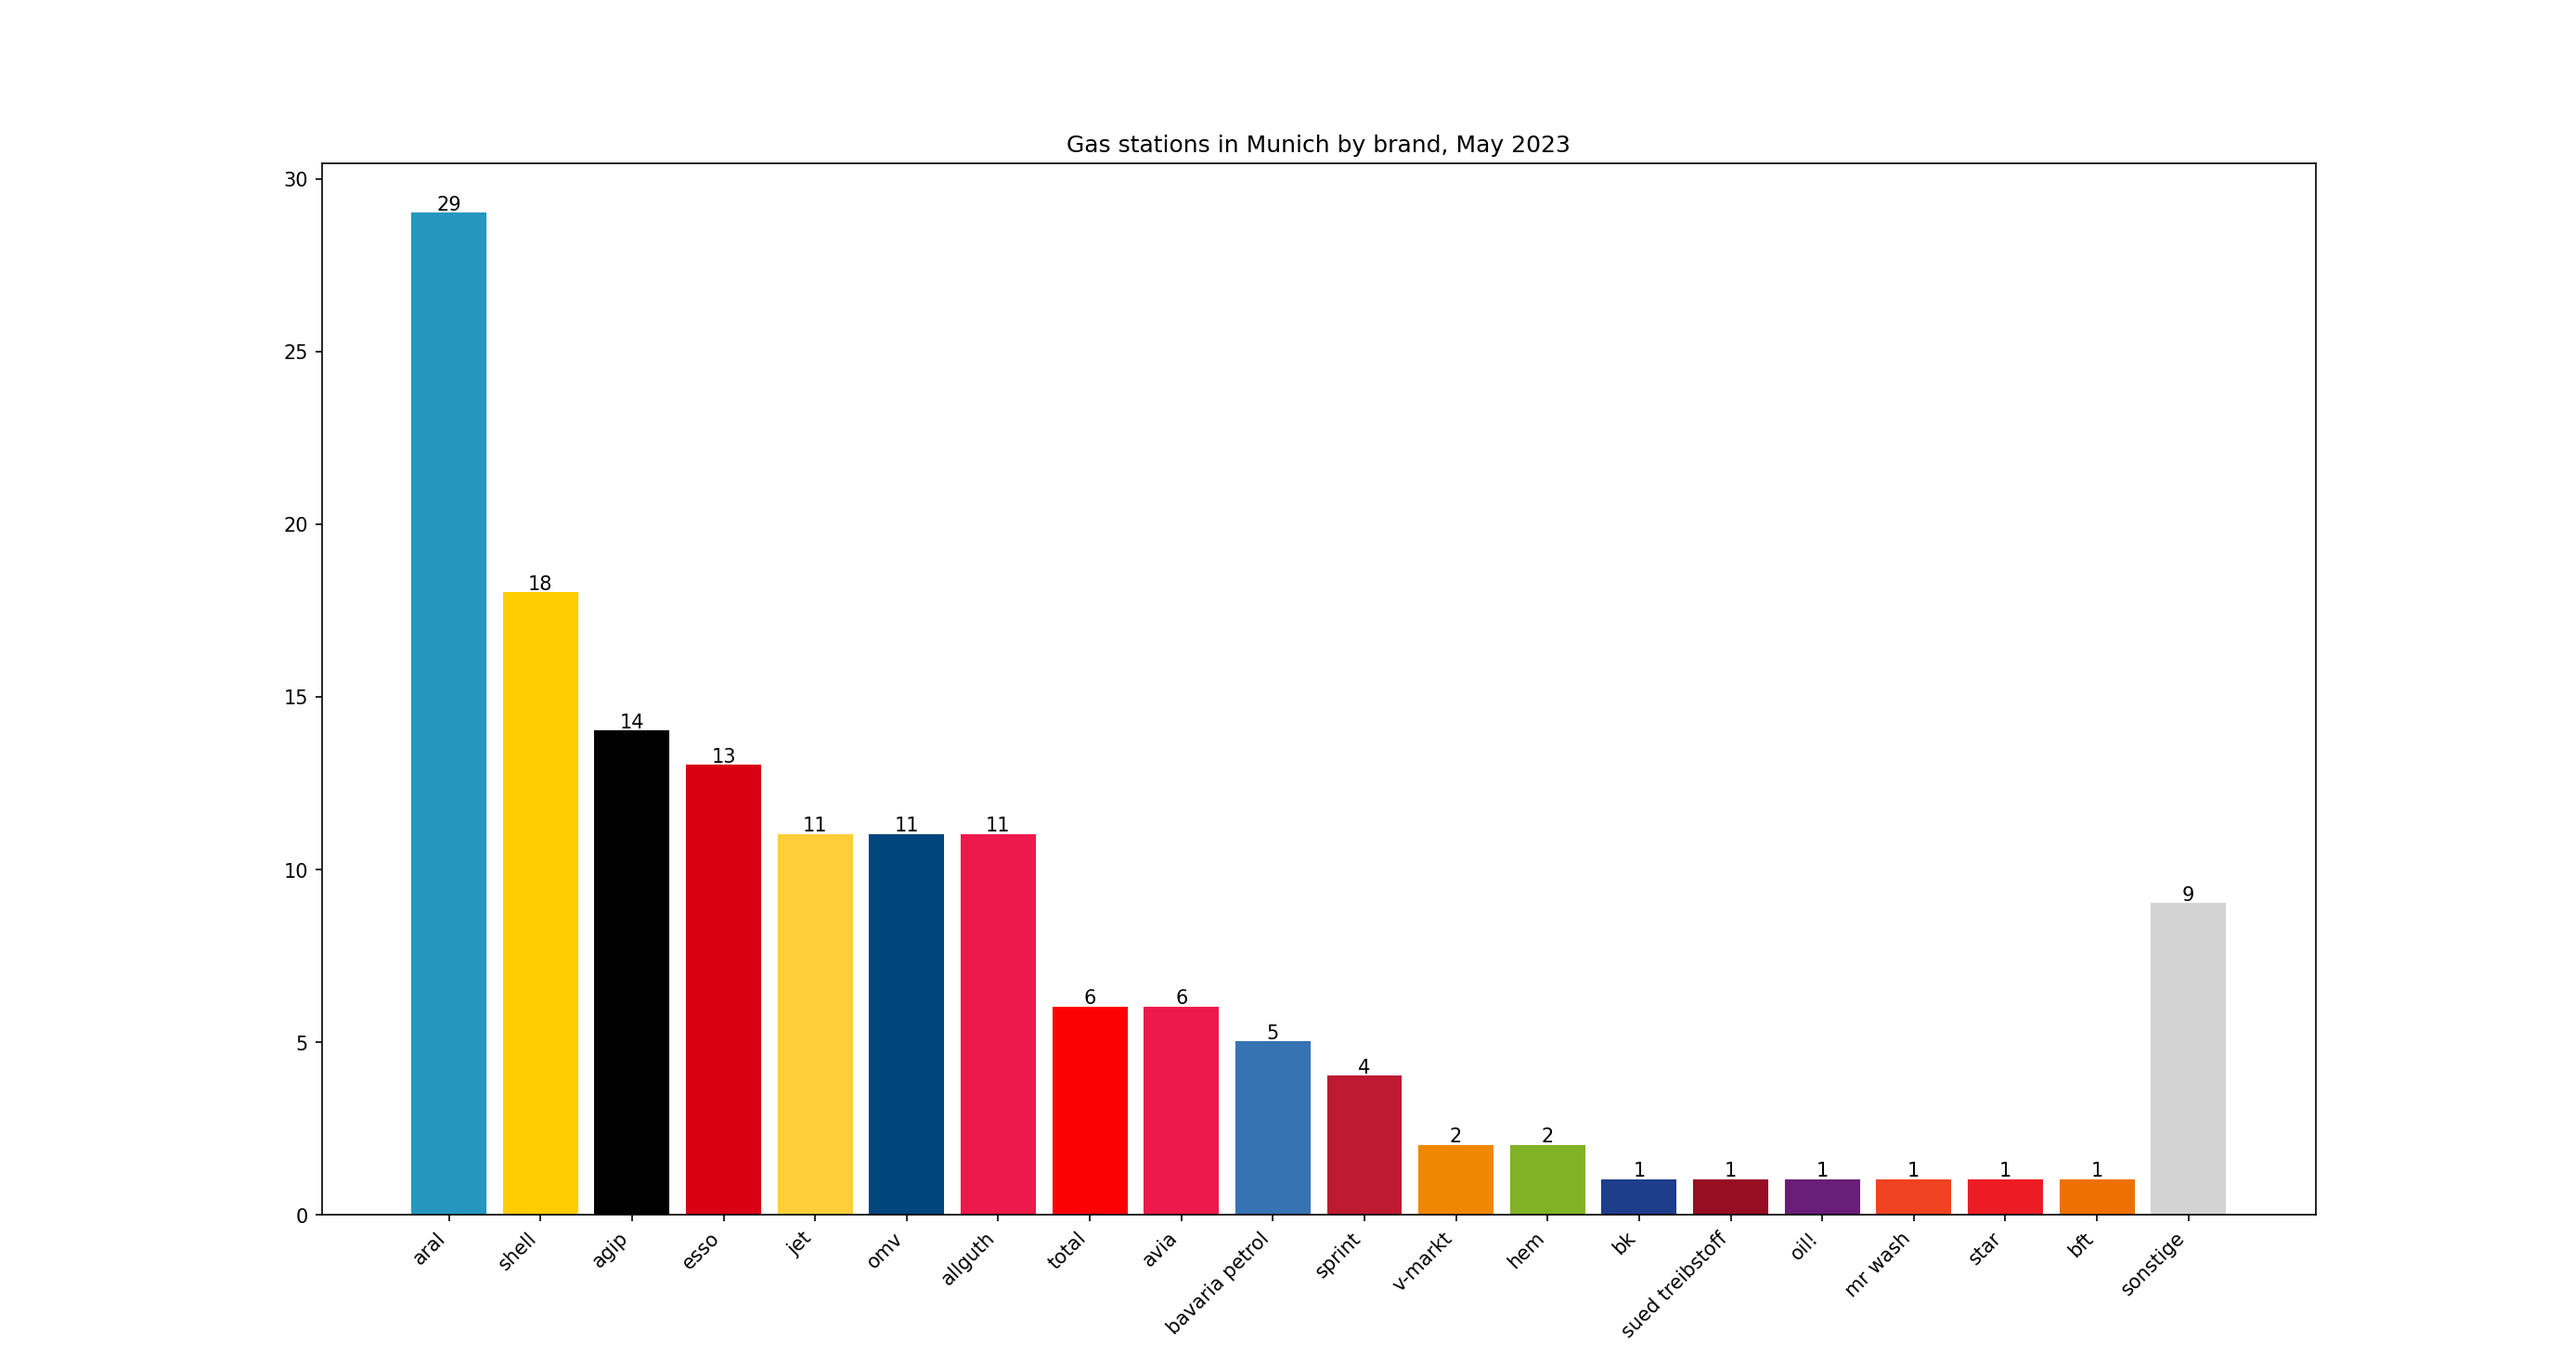
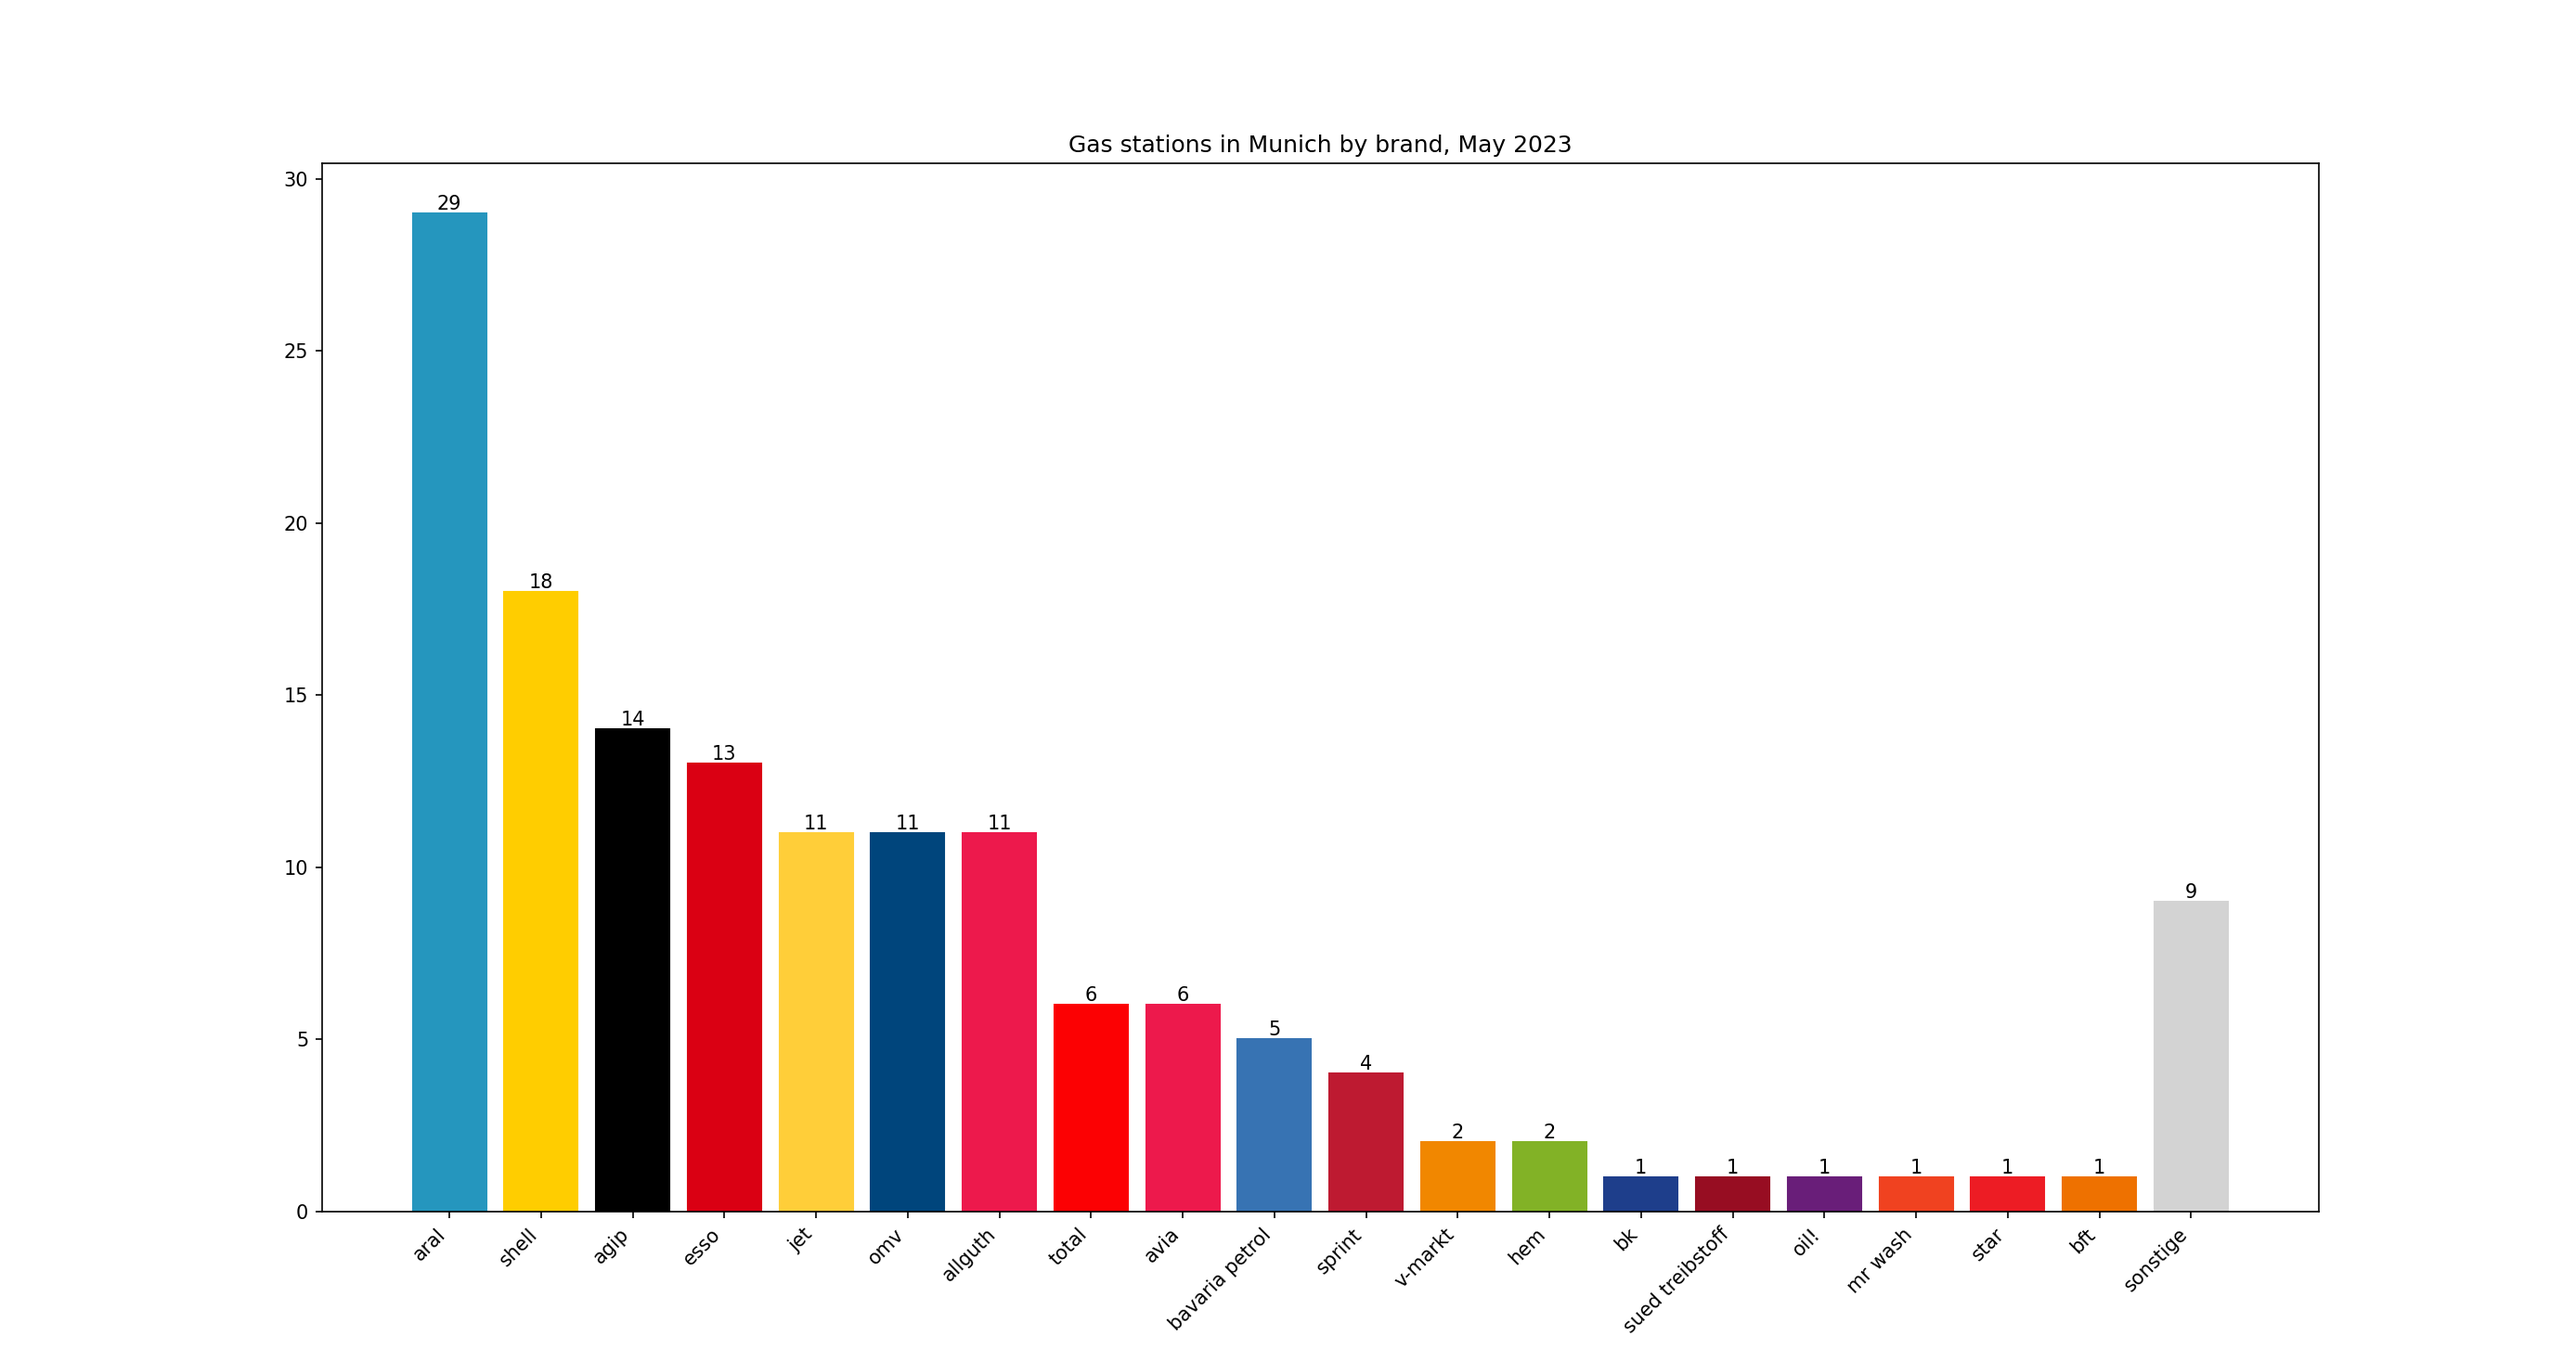
added comments

Changed region(s): [[0.4033, 0.092, 0.6205, 0.1227], [0.6205, 0.9509, 0.6515, 0.9816], [0.4654, 0.9202, 0.4964, 0.9509]]

diff --git a/py/one-company-plot.py b/py/one-company-plot.py
@@ -1,3 +1,10 @@
+'''
+File: one-company-plot.py
+- yields a times series of prices in Munich for all stations
+	of one particular brand on one date, range: 6:00 until 22:55
+'''
+
+
 import matplotlib.pyplot as plt
 import matplotlib.dates as mdates
 import datetime
@@ -78,37 +85,49 @@ def createGraphLabelsForStations(ids):
 
 
 
-
+# input the date for which the 
+# format: two-digit number
+# range: 01 - 31 October 2022
 string = input("Date: ")
 date = string+'oct2022'
+
+# input the brand of the stations
 company = input("Company: ")
 
 
+# get all time series for each station within the brand
+# ranges - array with a time series for each station
+# ids - array with the ids of each station
 (ranges, ids) = getDataAllStationsOneBrand(company, date)
+
+
+# calculate average for each time stamp (5-min interval)
 avg_company = calculateAveragesOneBrand(ranges)
 
-print(ranges)
 
-
+# create labels each station on the graph, format: "street" + "no." 
+# names - the array with the labels for the graph
 names = createGraphLabelsForStations(ids)
+
+
+# add the average time series to the array of all time series
 ranges.append(avg_company)
-names.append("AVERAGE")
-
-print(names)
+names.append("AVERAGE") # add the label to the array with all labels
 
 
-
-
+# create the time series range for the graph: from 6:00 until 22:55 with 5-min intervals
 times = (pd.date_range("6:00", "22:55", freq="5min")).to_numpy()
 rangeX = times
 
 
+# create figure with fixed size (16, 9)
+fig = plt.figure(figsize=(16, 9))
+ax = fig.add_subplot(1, 1, 1) # just one graph (one subplot)
 
-fig, ax = plt.subplots()
 
+# add each time series to the graph
 for idx, rr in enumerate(ranges):
-	ax.plot_date(rangeX, rr, label=names[idx], marker='', linestyle='-')
-
+	ax.plot_date(rangeX, rr, fmt='-', label=names[idx])
 
 
 # setting the date format of the x-axis labels
@@ -118,7 +137,7 @@ ax.xaxis.set_major_formatter(myFmt)
 
 # setting the boundaries of the y-axis
 low = 1.7875
-high = 2.2215
+high = 2.2215 # max based on the data given
 ax.set_ylim(low, high)
 
 
@@ -129,14 +148,13 @@ ax.legend(loc="lower center", ncol=5)
 
 
 # maximize the preview window 
-manager = plt.get_current_fig_manager()
-manager.window.showMaximized()
+#manager = plt.get_current_fig_manager()
+#manager.window.showMaximized()
 
 plt.show()
 
 
 # saving the plot
-plt.rcParams["figure.figsize"] = [14, 8] # the size of the figure to be saved
-#fig.savefig('./samples/'+company+'_stations_MUC_'+date+'.png', dpi = 400)
-#print('Saved: ' + './samples/'+company+'_stations_MUC_'+date+'.png')
+fig.savefig('./samples/'+company+'_stations_MUC_'+date+'.png', dpi = 400)
+print('Saved: ' + './samples/'+company+'_stations_MUC_'+date+'.png')
 

diff --git a/py/bar-chart.py b/py/bar-chart.py
@@ -1,3 +1,8 @@
+'''
+File: bar-chartt.py
+- yields a vertical bar chart with the number of stations within Munich for each brand
+'''
+
 import matplotlib.pyplot as plt
 import matplotlib.dates as mdates
 import datetime
@@ -12,7 +17,7 @@ MUC_char = pd.read_csv('../data/stations_characteristics_MUC_long.csv')
 MUC_data = pd.read_csv('../data/stations_prices_MUC_wide_10-2022.csv')
 
 
-#count items by category
+#count stations by brand
 counts = {}
 
 for item in MUC_char['brand_id']:
@@ -21,15 +26,12 @@ for item in MUC_char['brand_id']:
     else:
         counts[item] += 1
 
+
 # sort items by value in reversed order
 counts = dict(sorted(counts.items(), key=lambda item: item[1], reverse=True))
 
-
-#for category, count in counts.items():
-#    print(f"{category}: {count}")
-
-rangeX = list(counts.keys())
-rangeY = list(counts.values())
+rangeX = list(counts.keys()) # names of the brands
+rangeY = list(counts.values()) # values = number of stations per brand
 
 
 # move 'sonstige' to the back of the chart
@@ -48,10 +50,14 @@ if 'sonstige' in rangeX:
 plt.rcParams["figure.figsize"] = [14, 8]
 
 
-# generate the plot
-fig, ax = plt.subplots()
+# create the figure
+fig = plt.figure(figsize=(16, 9))
+ax = fig.add_subplot(1, 1, 1)
 
+
+# generate the plot
 bars = ax.bar(rangeX, rangeY)
+
 
 #rotate the label for each bar, as they overlap
 plt.xticks(rotation=45, ha='right')
@@ -63,14 +69,17 @@ for index, value in enumerate(rangeY):
 	bars[index].set_color(sc.hex_to_rgb(sc.colors_brands[rangeX[index]]))
 
 
+# set title of the graph
 ax.set_title('Gas stations in Munich by brand, May 2023')
 
-# make the plt winodow maximized
-manager = plt.get_current_fig_manager()
-manager.window.showMaximized()
 
+# make the plt winodow maximized
+#manager = plt.get_current_fig_manager()
+#manager.window.showMaximized()
 
 plt.show()
+
+# save file
 fig.savefig('../plots/barchart_stations_Munich', dpi = 150)
 print('Saved: ' + '../plots/barchart_stations_Munich.png')
 

diff --git a/py/mult-companies.py b/py/mult-companies.py
@@ -11,7 +11,15 @@ MUC_char = pd.read_csv('../data/stations_characteristics_MUC_long.csv')
 MUC_data = pd.read_csv('../data/stations_prices_MUC_wide_10-2022.csv')
 
 
-# returns the list of all stations within the brand (returns 'id_data' of each station)
+
+'''
+Yields a times series of prices in Munich for multiple brands for one particular day 
+
+'''
+
+
+
+# returns the list of all individual stations within the brand (returns 'id_data' of each station)
 def getStationsbyCompany(comp_name):
 	stations = MUC_char[MUC_char['brand_id'] == comp_name]
 	ids = stations['id_data'].tolist()
@@ -66,7 +74,7 @@ def calculateAveragesOneBrand(ranges):
 	return avg
 
 
-# create labels the graph for each station as "street & no. "
+# create labels for the graph for each station as "street & no. "
 def createGraphLabelsForStations(ids):
 	names = []
 

diff --git a/py/stations_colors.py b/py/stations_colors.py
@@ -1,3 +1,9 @@
+'''
+File: stations_colors.py
+
+- color of each brand for visualization
+'''
+
 def hex_to_rgb(hex_code):
     # Remove the '#' symbol if it's present
     if hex_code[0] == '#':

diff --git a/py/basic-plot.py b/py/basic-plot.py
@@ -1,3 +1,8 @@
+
+
+
+
+
 import matplotlib.pyplot as plt
 import matplotlib.dates as mdates
 import datetime
